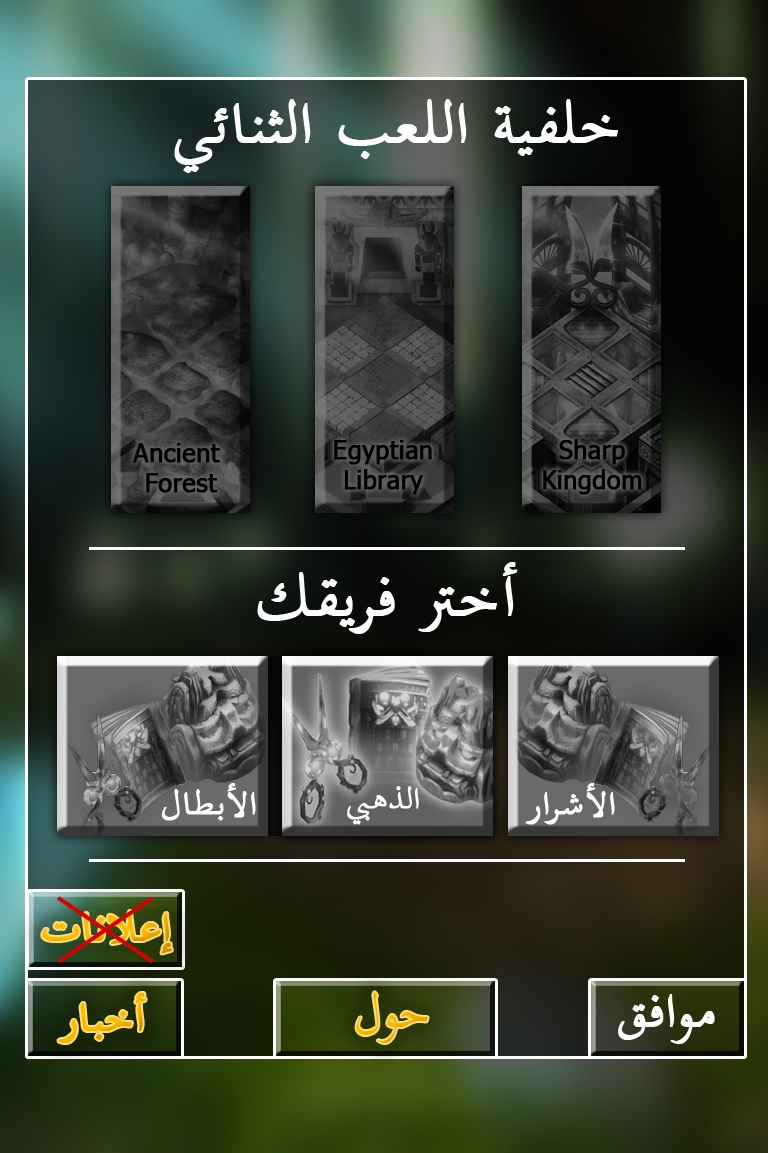
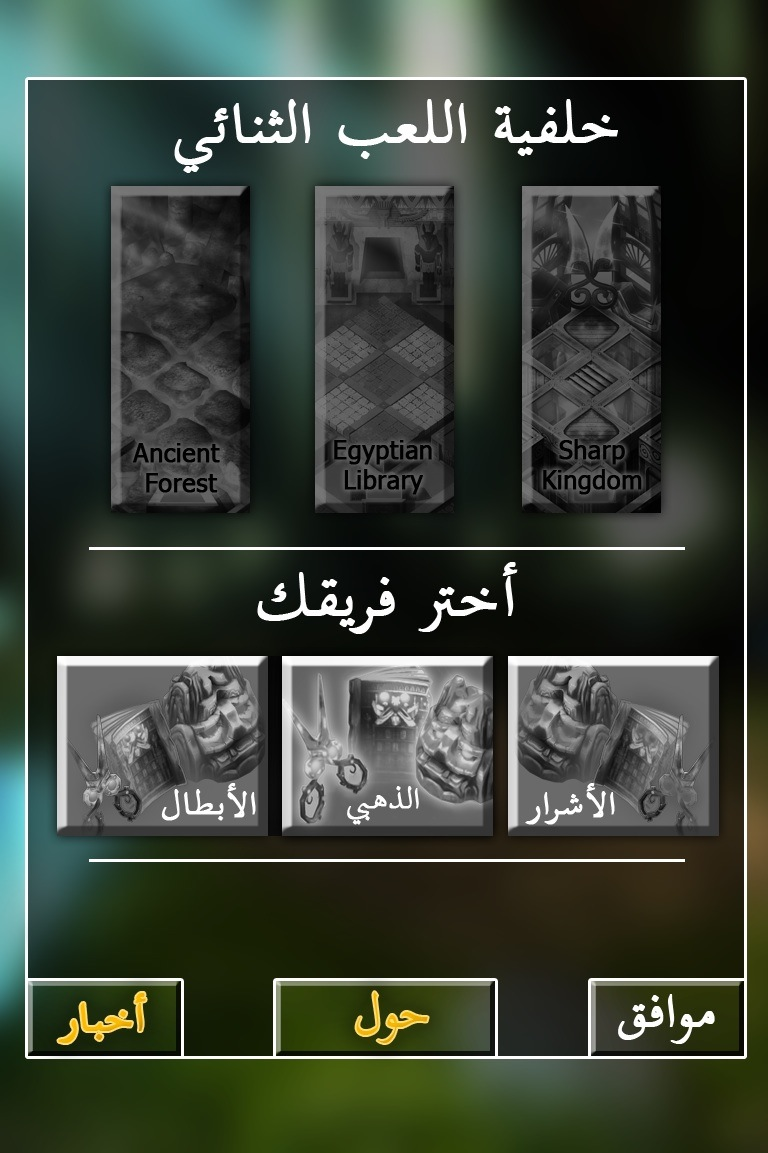
Adding NoAds button

Changed region(s): [[0.0312, 0.7493, 0.25, 0.843]]

diff --git a/Roc-a-Tac/Scenes/MainMenuScene.m b/Roc-a-Tac/Scenes/MainMenuScene.m
@@ -154,7 +154,8 @@
             
             btnSelector=[CCSprite spriteWithSpriteFrame:[frameCache spriteFrameByName:@"GUI_Menu_RateApp_A_Selector_Blue.png"]];
             btnSelector.anchorPoint=ccp(0, 0);
-            btnSelector.position=ADJUST_DOUBLE_XY(55, 183);
+//            btnSelector.position=ADJUST_DOUBLE_XY(55, 183);
+            btnSelector.position=ADJUST_DOUBLE_XY(55, 290);
             [rateAppSprite addChild:btnSelector];
             
         }else if(CGRectContainsPoint(problemRect, location)){
@@ -162,7 +163,8 @@
             [btnSelector removeFromParentAndCleanup:YES];
             btnSelector=[CCSprite spriteWithSpriteFrame:[frameCache spriteFrameByName:@"GUI_Menu_RateApp_A_Selector_Red.png"]];
             btnSelector.anchorPoint=ccp(0, 0);
-            btnSelector.position=ADJUST_DOUBLE_XY(55, 134);
+//            btnSelector.position=ADJUST_DOUBLE_XY(55, 134);
+            btnSelector.position=ADJUST_DOUBLE_XY(55, 240);
             [rateAppSprite addChild:btnSelector];
             
         }
@@ -215,7 +217,11 @@
     
     [self performSelector:@selector(disableSelectedButton) withObject:Nil afterDelay:5];
     
-    [btnSelector removeFromParentAndCleanup:YES];
+    if (btnSelector) {
+        [btnSelector removeFromParentAndCleanup:YES];
+        btnSelector = NULL;
+    }
+    
     CGPoint location = [touch locationInView:[touch view]]; 
     
     location = [[CCDirector sharedDirector] convertToGL:location]; 

diff --git a/Roc-a-Tac/Scenes/OptionsScene.m b/Roc-a-Tac/Scenes/OptionsScene.m
@@ -157,9 +157,9 @@
     if (![gameController isFeaturePurchased:kREMOVE_ADS_ID ] &&
         [[NSUserDefaults standardUserDefaults]boolForKey:kBANNER_AD_ENABLED_KEY]) {
 //        removeAds=[CCSprite spriteWithSpriteFrame:[frameCache spriteFrameByName:@"GUI_Menu_Options_NoAds.png"]];
-//        removeAds.position=ADJUST_XY(21, 62);
-//        
-//        [self addChild:removeAds];
+        removeAds=[CCSprite spriteWithFile:@"noAdsBtn.png"];
+        removeAds.position=ADJUST_XY(21, 62);
+        [self addChild:removeAds];
     }
     
 //#endif
@@ -197,7 +197,8 @@
         [[NSUserDefaults standardUserDefaults]boolForKey:kBANNER_AD_ENABLED_KEY]) {    
      CGRect removeAdsRect=CGRectMake(ADJUST_DOUBLE(12*SCREEN_SCALE), ADJUST_DOUBLE_WITH_IPAD_TRIMMING(90*SCREEN_SCALE), ADJUST_DOUBLE(84*SCREEN_SCALE), ADJUST_DOUBLE(42*SCREEN_SCALE)) ;
         if (CGRectContainsPoint (removeAdsRect, location)) {
-            buttonSelector.position=ADJUST_XY(21, 62);
+//            buttonSelector.position=ADJUST_XY(21, 62);
+            buttonSelector.position=removeAds.position;
             buttonSelector.visible=YES;
             //remove ads
         }

diff --git a/Roc-a-Tac/Application/AppDelegate.m b/Roc-a-Tac/Application/AppDelegate.m
@@ -380,8 +380,7 @@ void uncaughtExceptionHandler(NSException *exception) {
             bool moPubBannerEnabled=[[moPubDict objectForKey:@"Mopub_Banners_Enabled"] boolValue];
             
             
-            [[NSUserDefaults standardUserDefaults]setBool:bannerAdEnabled forKey:kBANNER_AD_ENABLED_KEY];
-            [[NSUserDefaults standardUserDefaults]setBool:moPubBannerEnabled forKey:kBANNER_AD_ENABLED_KEY];
+            [[NSUserDefaults standardUserDefaults]setBool:(bannerAdEnabled|moPubBannerEnabled) forKey:kBANNER_AD_ENABLED_KEY];
             
             if (bannerAdEnabled) {// Get Tapjoy Display Ads Call
                     [TapjoyConnect getDisplayAdWithDelegate:viewController];

diff --git a/Roc-a-Tac/MKStoreKit/MKStoreObserver.m b/Roc-a-Tac/MKStoreKit/MKStoreObserver.m
@@ -70,6 +70,16 @@
 - (void)paymentQueueRestoreCompletedTransactionsFinished:(SKPaymentQueue *)queue 
 {
     [[MKStoreManager sharedManager] restoreCompleted];
+    
+//    purchasedItemIDs = [[NSMutableArray alloc] init];
+//    
+//    NSLog(@"received restored transactions: %i", queue.transactions.count);
+//    for (SKPaymentTransaction *transaction in queue.transactions)
+//    {
+//        NSString *productID = transaction.payment.productIdentifier;
+//        [purchasedItemIDs addObject:productID];
+//    }
+
 }
 
 - (void) failedTransaction: (SKPaymentTransaction *)transaction
